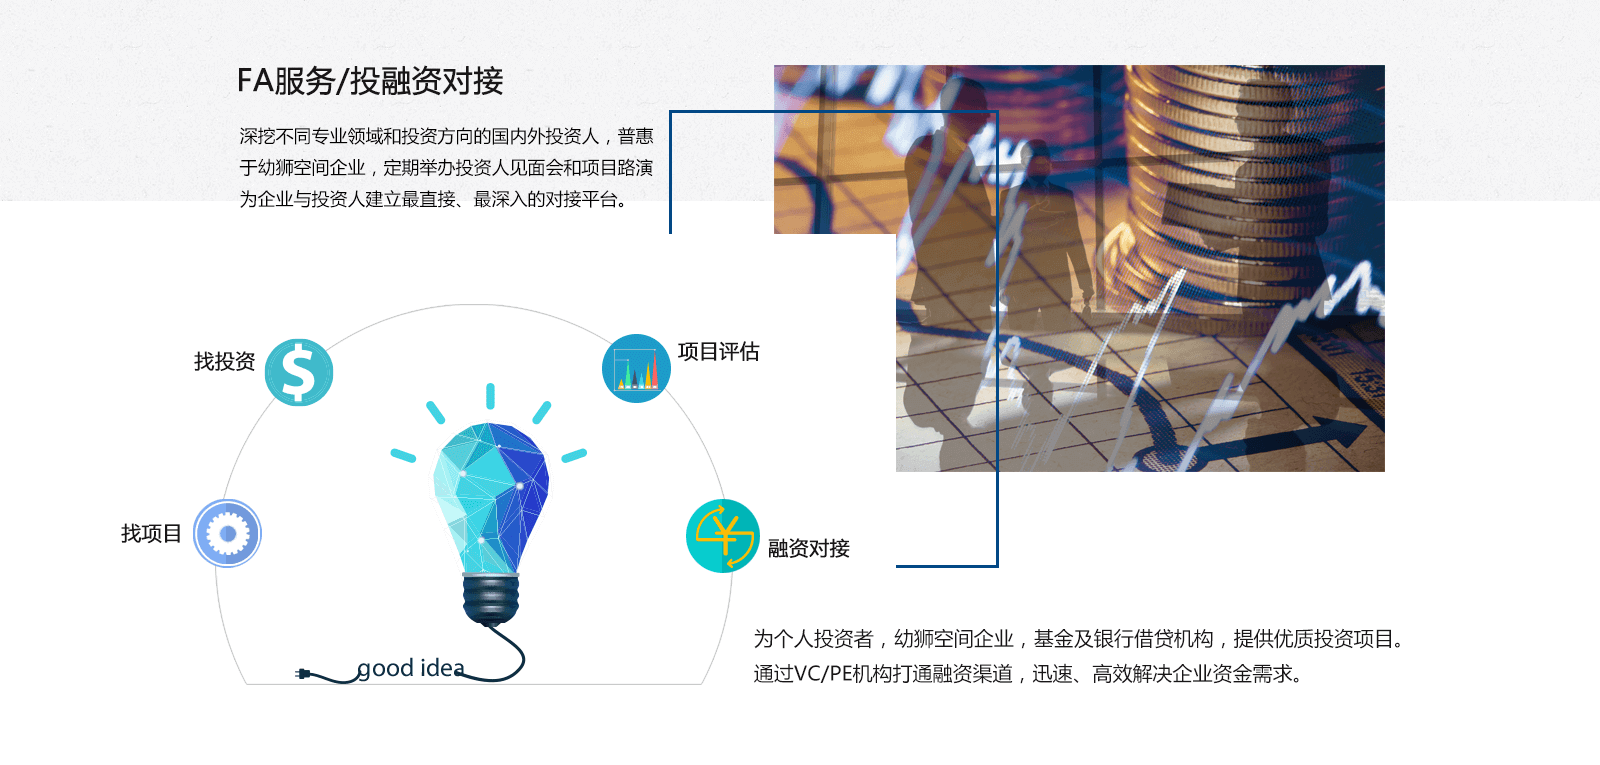
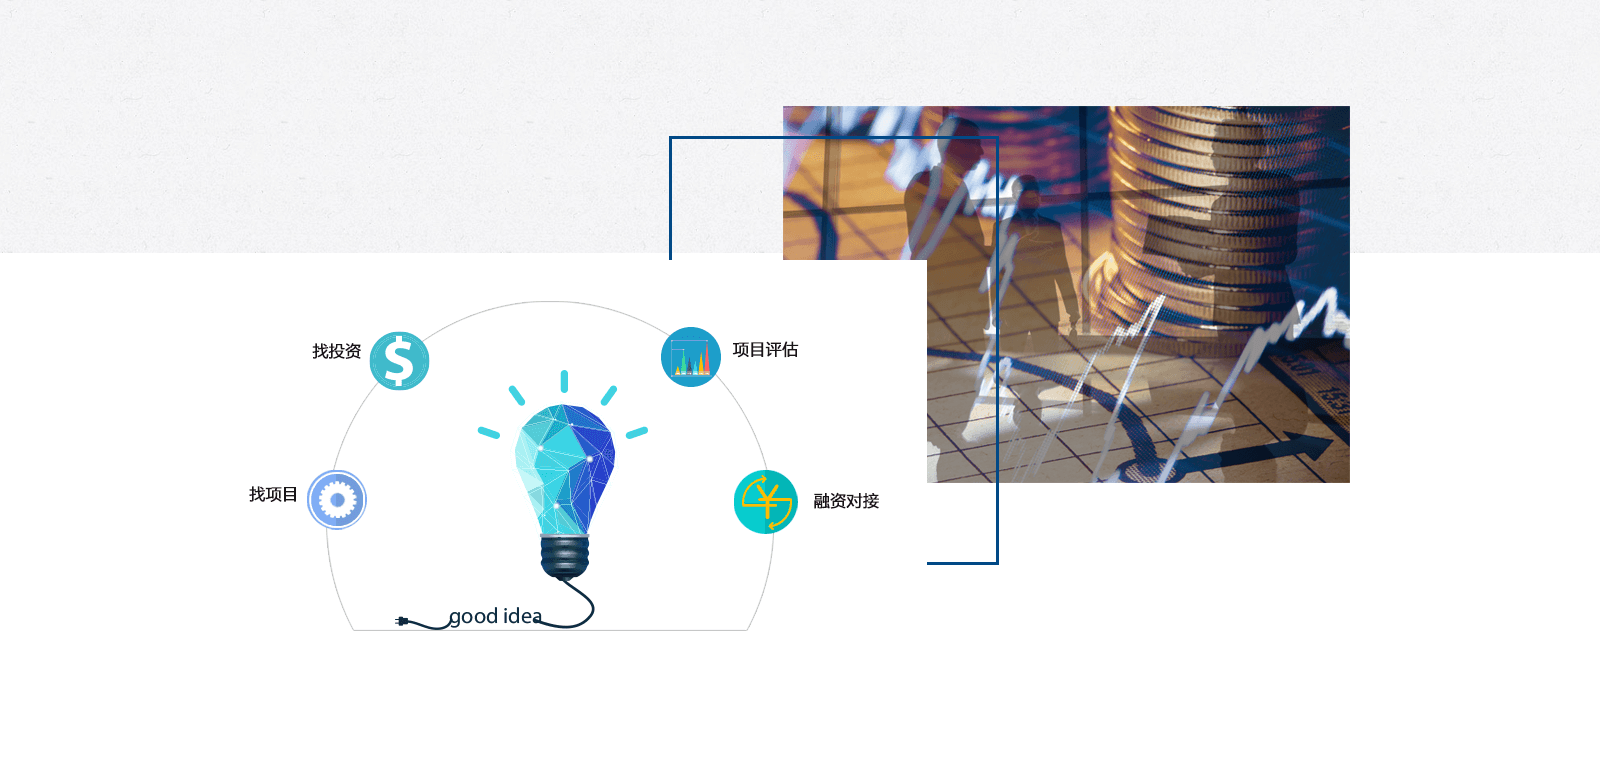
update

diff --git a/www/routers/update.vue b/www/routers/update.vue
@@ -12,7 +12,7 @@
                 <div class="swiper-wrapper">
                     <div class="swiper-slide slide1"></div>
                     <div class="swiper-slide pr slide2">
-                        <div class="up_two_prag">
+                        <div class="up_two_prag" id="animate_2">
                             <p>企业升级服务部以提供专业化服务为宗旨，解决用户在发展过程中遇到的有碍其成长的资金、人力、风险控制等困扰因素为目标，以办公空间为载体，
                                 通过提供财税服务、法务服务、人力资源服务、商学院服务、FA服务等内容，与客户建立深度链接、超强黏性，进而带来新的办公空间需求，通过对空
                                 间租户的服务，衍生辐射到非空间用户，从而形成具有影响力的企业办公服务品牌，服务助力空间、空间承载服务，最终形成“有形的空间+无形的服务”
@@ -62,12 +62,67 @@
                                 <span class="fr up_ser_rtips ser4"></span>
                             </li>
                         </ul>
-                        <div class="up_service_desc" id="animate3">登录幼狮科技企业服务平台，您可以享受舒适的办公空间，结交优质的商业合作伙伴，获得高效的专属服务。</div>
+                        <div class="up_service_desc" id="animate3">登录幼狮科技企业服务平台，您可以享受舒适的办公空间，结交优质的商业合作伙伴，获得高效的专属服务。
+                        </div>
                     </div>
-                    <div class="swiper-slide slide4"></div>
-                    <div class="swiper-slide slide5"></div>
-                    <div class="swiper-slide slide6"></div>
+                    <div class="swiper-slide slide4">
+                        <div class="serice_four_right" id="animate4_1">
+                            <h3>财/法/税支持</h3>
+                            <p>数家知名会计事务所／律师事务所，针对不同行业，</p>
+                            <p>为企业提供更加细致、专业的财／法／税的咨询服务，</p>
+                            <p>把控企业风险，提供解决及优化方案。</p>
+                        </div>
+
+                        <div class="serice_four_left" id="animate4_2">
+                            <div class="service_four_item">
+                                <h3>finance 财务</h3>
+                                <p>优化中小企业销售费用管理结构</p>
+                                <p>企业财务风险管理存在的问题及解决策略</p>
+                            </div>
+                            <div class="service_four_item">
+                                <h3>legal affairs 法务</h3>
+                                <p>公司成立后，如何应对股东出资瑕疵/出资不足</p>
+                                <p>法律风险防范和业务发展的对立与冲突</p>
+                            </div>
+                            <div class="service_four_item">
+                                <h3>Taxation 税务</h3>
+                                <p>企业设立分公司时，办理税务登记的相关流程</p>
+                                <p>如何权衡纳税成本与企业发展之间制约关系</p>
+                            </div>
+                        </div>
+
+                    </div>
+                    <div class="swiper-slide slide5">
+                        <div class="serice_five_right" id="animate5_1">
+                            <h3 class="mb10">FA服务/投融资对接</h3>
+                            <p>深挖不同专业领域和投资方向的国内外投资人，普惠</p>
+                            <p>于幼狮空间企业，定期举办投资人见面会和项目路演</p>
+                            <p>为企业与投资人建立最直接、最深入的对接平台。</p>
+                        </div>
+
+                        <div class="serice_five_left" id="animate5_2">
+                            <div class="service_four_item">
+                                <p>为个人投资者，幼狮空间企业，基金及银行借贷机构，提供优质投资项目。</p>
+                                <p>通过VC/PE机构打通融资渠道，迅速、高效解决企业资金需求。</p>
+                            </div>
+                        </div>
+                    </div>
+                    <div class="swiper-slide slide6">
+                        <div class="serice_six" id="animate6">
+                            <h3 class="mb10">幼狮商学院</h3>
+                            <p>作为幼狮空间办公生态体系的重要组成部分，幼狮商学院将成为幼</p>
+                            <p>狮空间企业在战略执行和价值创造的道路上提供各类管理实践课程</p>
+                            <p>同时发起并展开论坛、讲座、沙龙等丰富的交流活动。</p>
+                        </div>
+                    </div>
                     <div class="swiper-slide slide7">
+                        <div class="serice_seven" id="animate7">
+                            <h3 class="mb10">人力资源服务</h3>
+                            <p>根据企业发展战略的要求，及对人才的需求</p>
+                            <p>为企业提供人才服务，从而促进企业人力资</p>
+                            <p>源的有效开发与优化配置</p>
+                        </div>
+
                         <div footer>
                             <div class="contents foot_head clearfix">
                                 <div class="fl">
@@ -76,7 +131,8 @@
                                     <p class="lion_address">地址：北京市朝阳区东三环中路39号建外SOHO东区A座2503</p>
                                 </div>
                                 <div class="fr">
-                                    <img src="../resources/images/ys_weixin.jpg" alt="幼狮微信" style="width: 98px;height: 98px;"/>
+                                    <img src="../resources/images/ys_weixin.jpg" alt="幼狮微信"
+                                         style="width: 98px;height: 98px;"/>
                                     <span class="weixin_text">幼狮官网</span>
                                 </div>
                             </div>
@@ -125,6 +181,13 @@
                         setTimeout(function () {
                             $('#animate').removeClass('animated infinite bounceInUp')
                         }, 1000);
+
+                        $('#animate_2').addClass('animated infinite swing');
+                        setTimeout(function () {
+                            $('#animate_2').removeClass('animated infinite swing')
+                        }, 1000);
+
+
                     }
 
                     if (swiper.activeIndex == 2) {
@@ -138,6 +201,45 @@
                             $('#animate3').removeClass('animated infinite bounceInUp')
                         }, 1000);
                     }
+
+                    if (swiper.activeIndex == 3) {
+                        $('#animate4_1').addClass('animated infinite fadeInRight');
+                        setTimeout(function () {
+                            $('#animate4_1').removeClass('animated infinite fadeInRight')
+                        }, 1000);
+
+                        $('#animate4_2').addClass('animated infinite fadeInUp');
+                        setTimeout(function () {
+                            $('#animate4_2').removeClass('animated infinite fadeInUp')
+                        }, 1000);
+                    }
+
+                    if (swiper.activeIndex == 4) {
+                        $('#animate5_1').addClass('animated infinite flipInY');
+                        setTimeout(function () {
+                            $('#animate5_1').removeClass('animated infinite flipInY')
+                        }, 1000);
+
+                        $('#animate5_2').addClass('animated infinite fadeInUpBig');
+                        setTimeout(function () {
+                            $('#animate5_2').removeClass('animated infinite fadeInUpBig')
+                        }, 1000);
+                    }
+
+                    if (swiper.activeIndex == 5) {
+                        $('#animate6').addClass('animated infinite fadeInRight');
+                        setTimeout(function () {
+                            $('#animate6').removeClass('animated infinite fadeInRight')
+                        }, 1000);
+                    }
+                    if (swiper.activeIndex == 6) {
+                        $('#animate7').addClass('animated infinite swing');
+                        setTimeout(function () {
+                            $('#animate7').removeClass('animated infinite swing')
+                        }, 1000);
+                    }
+
+
                 }
             })
 

diff --git a/www/resources/css/update/update.css b/www/resources/css/update/update.css
@@ -225,6 +225,84 @@
   background: url("../../images/update/up_icon/up_three_icon4.png") no-repeat;
   background-size: 100% 100%;
 }
+[update] .serice_four_right,
+[update] .serice_five_right {
+  position: absolute;
+  right: 250px;
+  top: 140px;
+  text-align: left;
+}
+[update] .serice_four_right h3,
+[update] .serice_five_right h3 {
+  font-size: 20px;
+  font-weight: 500;
+}
+[update] .serice_four_right p,
+[update] .serice_five_right p {
+  font-size: 14px;
+}
+[update] .serice_four_left,
+[update] .serice_five_left {
+  position: absolute;
+  left: 220px;
+  top: 250px;
+  text-align: right;
+}
+[update] .serice_four_left .service_four_item,
+[update] .serice_five_left .service_four_item {
+  margin-bottom: 20px;
+}
+[update] .serice_four_left h3,
+[update] .serice_five_left h3 {
+  font-size: 20px;
+  font-weight: 500;
+}
+[update] .serice_four_left p,
+[update] .serice_five_left p {
+  font-size: 14px;
+}
+[update] .serice_five_right {
+  top: 80px;
+  left: 150px;
+}
+[update] .serice_five_left {
+  right: 210px;
+  left: auto;
+  top: 450px;
+  text-align: left;
+}
+[update] .serice_six {
+  position: absolute;
+  right: 240px;
+  top: 50px;
+  text-align: left;
+}
+[update] .serice_six .service_four_item {
+  margin-bottom: 20px;
+}
+[update] .serice_six h3 {
+  font-size: 20px;
+  font-weight: 600;
+}
+[update] .serice_six p {
+  font-size: 14px;
+}
+[update] .serice_seven {
+  position: absolute;
+  left: 350px;
+  top: 150px;
+  text-align: right;
+}
+[update] .serice_seven .service_four_item {
+  margin-bottom: 20px;
+}
+[update] .serice_seven h3 {
+  font-size: 20px;
+  font-weight: 600;
+}
+[update] .serice_seven p {
+  font-size: 14px;
+}
 @media screen and (min-width: 1500px) {
   [update] {
     height: 940px;

diff --git a/www/resources/css/update/update.less b/www/resources/css/update/update.less
@@ -182,6 +182,85 @@
     }
   }
 
+  //四
+  .serice_four_right,.serice_five_right{
+    position: absolute;
+    right:250px;
+    top:140px;
+    text-align: left;
+    h3{
+      font-size: @font20;
+      font-weight: 500;
+    }
+    p{
+      font-size: @font14;
+    }
+  }
+
+  .serice_four_left,.serice_five_left{
+    position: absolute;
+    left:220px;
+    top:250px;
+    text-align: right;
+    .service_four_item{
+      margin-bottom: 20px;
+    }
+    h3{
+      font-size: @font20;
+      font-weight: 500;
+    }
+    p{
+      font-size: @font14;
+    }
+  }
+
+  .serice_five_right{
+    top:80px;
+    left:150px;
+  }
+
+  .serice_five_left{
+    right:210px;
+    left: auto;
+    top: 450px;
+    text-align: left;
+  }
+
+  .serice_six{
+    position: absolute;
+    right:240px;
+    top:50px;
+    text-align: left;
+    .service_four_item{
+      margin-bottom: 20px;
+    }
+    h3{
+      font-size: @font20;
+      font-weight: 600;
+    }
+    p{
+      font-size: @font14;
+    }
+  }
+
+  //seven
+  .serice_seven{
+    position: absolute;
+    left:350px;
+    top:150px;
+    text-align: right;
+    .service_four_item{
+      margin-bottom: 20px;
+    }
+    h3{
+      font-size: @font20;
+      font-weight: 600;
+    }
+    p{
+      font-size: @font14;
+    }
+  }
+
 }
 
 @media screen and (min-width: 1500px) {
